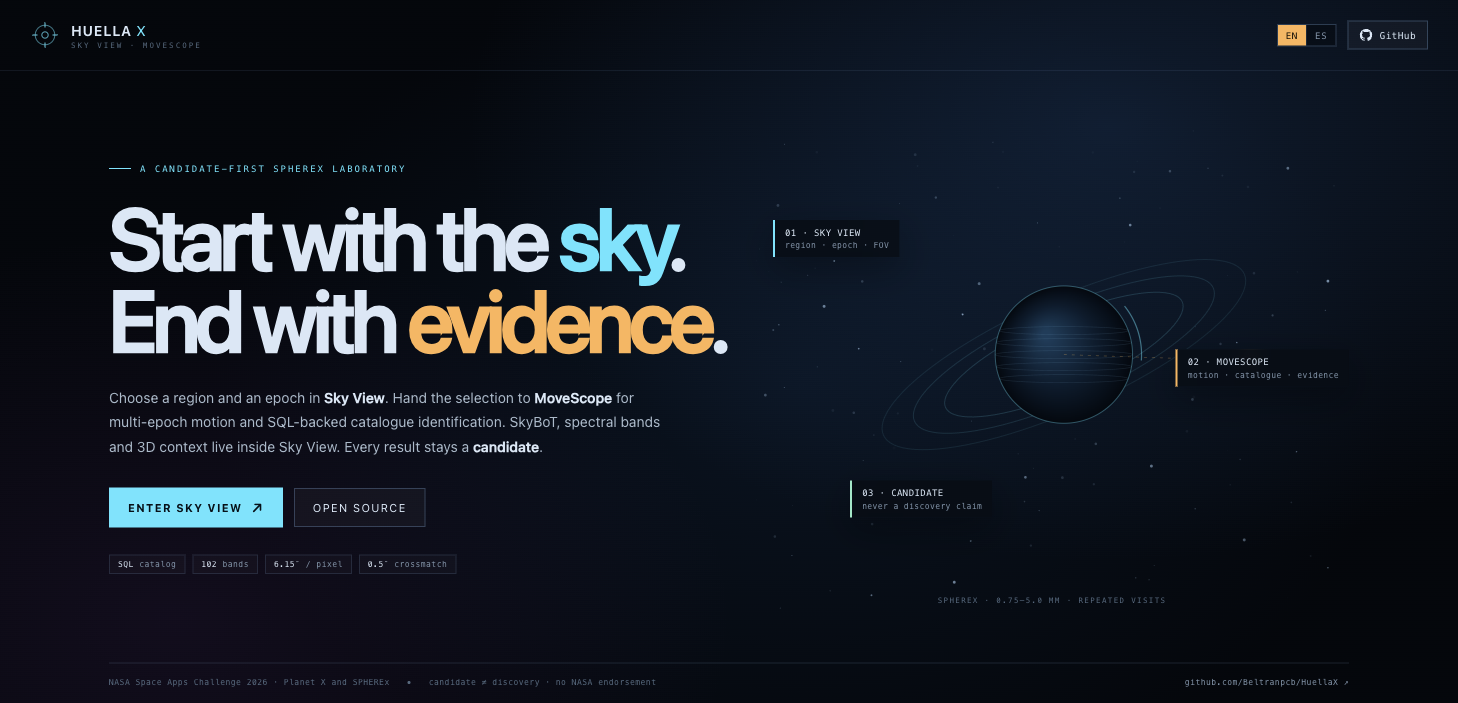
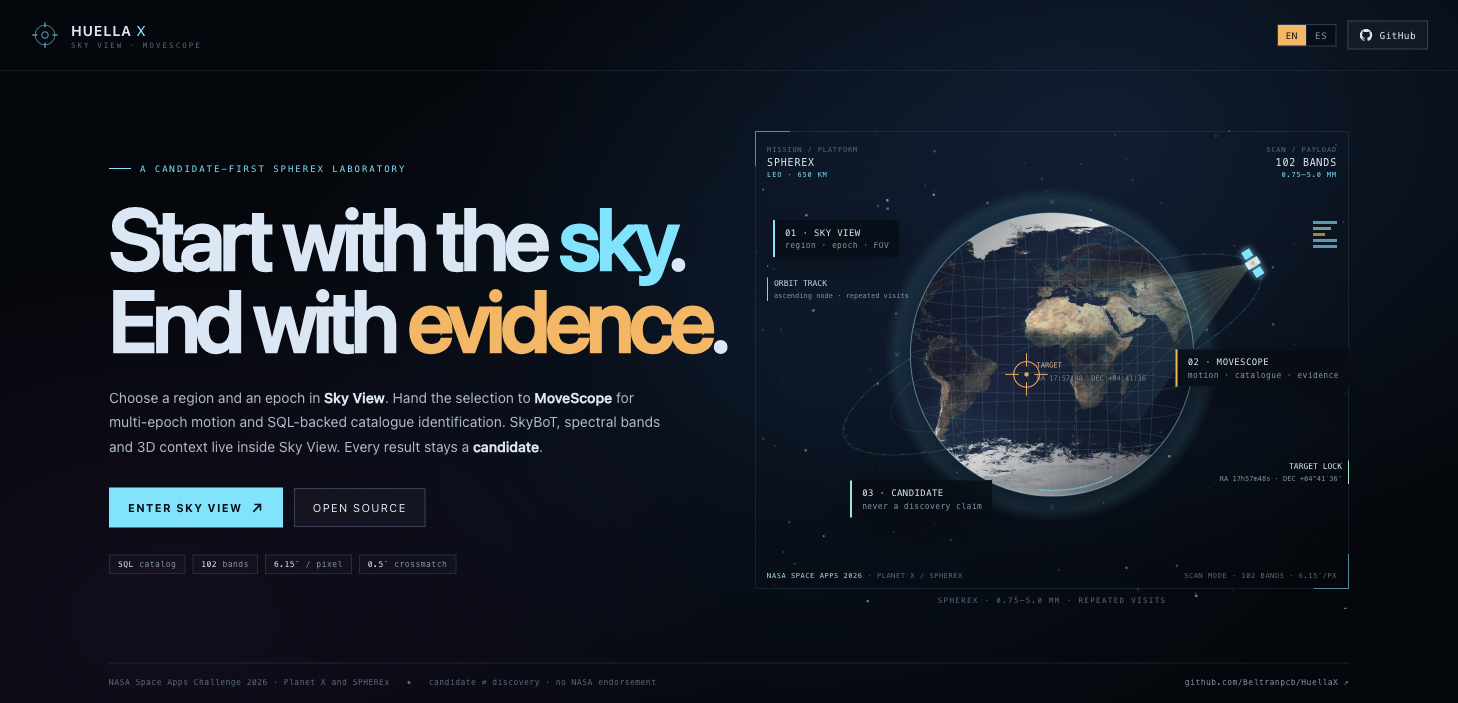
design: add NASA-style Earth, orbit and telemetry HUD to entry page

diff --git a/index.html b/index.html
@@ -77,6 +77,28 @@
   .float{position:absolute;border-left:2px solid var(--cyan);background:rgba(6,12,20,.82);backdrop-filter:blur(8px);padding:7px 10px;font-family:var(--mono);font-size:8px;letter-spacing:.05em;box-shadow:0 12px 36px rgba(0,0,0,.3);pointer-events:none}
   .float b{display:block;color:var(--ink);font-size:9px;font-weight:500;margin-bottom:3px}
   .float span{color:var(--dim)}
+
+  /* NASA-style mission HUD around the orbital illustration */
+  .orbit-frame{position:absolute;inset:2px 0 20px;pointer-events:none;border:1px solid rgba(87,230,255,.10);}
+  .orbit-frame:before,.orbit-frame:after{content:"";position:absolute;width:34px;height:34px;border-color:rgba(87,230,255,.55);border-style:solid;}
+  .orbit-frame:before{top:-1px;left:-1px;border-width:1px 0 0 1px;}
+  .orbit-frame:after{bottom:-1px;right:-1px;border-width:0 1px 1px 0;}
+  .orbit-hud{position:absolute;inset:16px 0 auto;display:flex;justify-content:space-between;pointer-events:none;padding:0 12px;}
+  .oh{font-family:var(--mono);font-size:7px;letter-spacing:.12em;color:var(--dim2);text-transform:uppercase;}
+  .oh b{display:block;margin-top:3px;color:var(--ink);font-size:10px;font-weight:500;letter-spacing:.08em;}
+  .oh small{display:block;margin-top:2px;color:var(--cyan);font-size:7px;}
+  .oh.right{text-align:right;}
+  .orbit-strip{position:absolute;left:12px;right:12px;bottom:30px;display:flex;justify-content:space-between;pointer-events:none;font-family:var(--mono);font-size:7px;color:var(--dim2);letter-spacing:.08em;text-transform:uppercase;}
+  .orbit-strip b{color:var(--mint);font-weight:500;}
+  .orbit-spectrum{position:absolute;right:12px;top:92px;display:flex;flex-direction:column;gap:3px;pointer-events:none;}
+  .orbit-spectrum i{display:block;width:24px;height:3px;background:var(--cyan);opacity:.65;}
+  .orbit-spectrum i:nth-child(2){width:18px;background:var(--mint)}
+  .orbit-spectrum i:nth-child(3){width:12px;background:var(--amber)}
+  .orbit-callout{position:absolute;border-left:1px solid var(--cyan);padding-left:6px;font-family:var(--mono);font-size:7px;line-height:1.55;color:var(--dim);pointer-events:none;}
+  .orbit-callout b{display:block;color:var(--ink);font-size:8px;font-weight:500;}
+  .oc-1{left:2%;top:31%;border-left-color:var(--amber)}
+  .oc-2{right:0;bottom:26%;text-align:right;border-left:0;border-right:1px solid var(--mint);padding-left:0;padding-right:6px}
+  @media(max-width:620px){.orbit-hud,.orbit-strip,.orbit-callout,.orbit-spectrum{display:none}}
   .f1{top:19%;left:3%}.f2{top:46%;right:0;border-left-color:var(--amber)}.f3{bottom:19%;left:16%;border-left-color:var(--mint)}
   .foot{
     flex:none;border-top:1px solid var(--line);width:min(1240px,calc(100% - 60px));
@@ -147,10 +169,19 @@
     </section>
 
     <section class="stage" aria-label="Sky View orbital illustration">
+      <div class="orbit-frame" aria-hidden="true"></div>
       <canvas id="orbit"></canvas>
+      <div class="orbit-hud">
+        <div class="oh"><span data-i18n="hudMission">Mission / platform</span><b>SPHEREx</b><small data-i18n="hudOrbit">LEO · 650 km</small></div>
+        <div class="oh right"><span data-i18n="hudScan">Scan / payload</span><b data-i18n="hudBands">102 BANDS</b><small>0.75–5.0 µm</small></div>
+      </div>
+      <div class="orbit-spectrum" aria-hidden="true"><i></i><i></i><i></i><i></i><i></i></div>
+      <div class="orbit-callout oc-1"><b data-i18n="hudTrack">ORBIT TRACK</b><span data-i18n="hudTrackNote">ascending node · repeated visits</span></div>
+      <div class="orbit-callout oc-2"><b data-i18n="hudTarget">TARGET LOCK</b><span>RA 17h57m48s · DEC +04°41′36″</span></div>
       <div class="float f1"><b>01 · SKY VIEW</b><span>region · epoch · FOV</span></div>
       <div class="float f2"><b>02 · MOVESCOPE</b><span>motion · catalogue · evidence</span></div>
       <div class="float f3"><b>03 · CANDIDATE</b><span>never a discovery claim</span></div>
+      <div class="orbit-strip"><span data-i18n-html="hudLeft">NASA SPACE APPS 2026 · PLANET X / SPHEREX</span><span data-i18n="hudRight">SCAN MODE · 102 BANDS · 6.15″/PX</span></div>
       <div class="note" data-i18n="stageNote">SPHEREx · 0.75–5.0 µm · repeated visits</div>
     </section>
   </main>
@@ -176,6 +207,12 @@
       cta: "Enter Sky View <span class=\"arrow\">↗</span>",
       source: "Open source",
       stageNote: "SPHEREx · 0.75–5.0 µm · repeated visits",
+      hudMission: "Mission / platform", hudOrbit: "LEO · 650 km",
+      hudScan: "Scan / payload", hudBands: "102 BANDS",
+      hudTrack: "ORBIT TRACK", hudTrackNote: "ascending node · repeated visits",
+      hudTarget: "TARGET LOCK",
+      hudLeft: "<b>NASA SPACE APPS 2026</b> · PLANET X / SPHEREX",
+      hudRight: "SCAN MODE · 102 BANDS · 6.15″/PX",
       footLeft: "NASA Space Apps Challenge 2026 · Planet X and SPHEREx",
       footMid: "candidate ≠ discovery · no NASA endorsement"
     },
@@ -187,6 +224,12 @@
       cta: "Entrar en Sky View <span class=\"arrow\">↗</span>",
       source: "Código abierto",
       stageNote: "SPHEREx · 0,75–5,0 µm · visitas repetidas",
+      hudMission: "Misión / plataforma", hudOrbit: "LEO · 650 km",
+      hudScan: "Escaneo / carga útil", hudBands: "102 BANDAS",
+      hudTrack: "ÓRBITA", hudTrackNote: "nodo ascendente · visitas repetidas",
+      hudTarget: "OBJETIVO FIJADO",
+      hudLeft: "<b>NASA SPACE APPS 2026</b> · PLANETA X / SPHEREX",
+      hudRight: "MODO ESCANEO · 102 BANDAS · 6.15″/PX",
       footLeft: "NASA Space Apps Challenge 2026 · Planet X and SPHEREx",
       footMid: "candidato ≠ descubrimiento · NASA no respalda"
     }
@@ -219,37 +262,128 @@
   apply(lang);
 
   const c = document.getElementById("orbit"), ctx = c.getContext("2d");
+  const earth = new Image();
+  const lights = new Image();
+  let earthOk = false, lightsOk = false;
+  earth.onload = () => { earthOk = true; };
+  lights.onload = () => { lightsOk = true; };
+  earth.src = "assets/earth.jpg";
+  lights.src = "assets/earth-lights.png";
   let stars = [];
   function resize() {
     const dpr = Math.min(devicePixelRatio || 1, 2), r = c.getBoundingClientRect();
     c.width = Math.max(1, Math.round(r.width * dpr)); c.height = Math.max(1, Math.round(r.height * dpr));
     ctx.setTransform(dpr, 0, 0, dpr, 0, 0);
-    stars = Array.from({length: 120}, () => ({x: Math.random()*r.width, y: Math.random()*r.height, r: Math.random()*1.3+.2, a: Math.random()*.55+.15, p: Math.random()*6.28, s: .0006+Math.random()*.0012}));
+    stars = Array.from({length: 170}, () => ({x: Math.random()*r.width, y: Math.random()*r.height, r: Math.random()*1.25+.2, a: Math.random()*.6+.12, p: Math.random()*6.28, s: .0005+Math.random()*.0011}));
+  }
+  function orbitPoint(cx, cy, R, angle) {
+    const rot = -.38, ex = R*1.58*Math.cos(angle), ey = R*.43*Math.sin(angle);
+    return { x: cx + ex*Math.cos(rot) - ey*Math.sin(rot), y: cy + ex*Math.sin(rot) + ey*Math.cos(rot) };
   }
   function draw(ts) {
     const dpr = Math.min(devicePixelRatio || 1, 2), w = c.width/dpr, h = c.height/dpr;
     ctx.clearRect(0,0,w,h);
-    const cx = w*.52, cy = h*.47, R = Math.min(w,h)*.27;
+    const cx = w*.50, cy = h*.47, R = Math.min(w,h)*.295;
+    // stars
     stars.forEach(s => {
       const t = .55+.45*Math.sin(ts*s.s+s.p);
-      ctx.beginPath(); ctx.arc(s.x,s.y,s.r,0,6.283); ctx.fillStyle = `rgba(180,220,255,${s.a*t})`; ctx.fill();
+      ctx.beginPath(); ctx.arc(s.x,s.y,s.r,0,6.283); ctx.fillStyle = `rgba(185,220,255,${s.a*t})`; ctx.fill();
     });
-    ctx.save(); ctx.translate(cx,cy);
-    for(let i=0;i<3;i++){
-      ctx.beginPath(); ctx.ellipse(0,0,R+i*34,(R+i*34)*.28,-.42,0,6.283);
-      ctx.strokeStyle = `rgba(87,230,255,${.16-i*.035})`; ctx.lineWidth=1; ctx.stroke();
-    }
-    const g = ctx.createRadialGradient(-18,-20,4,0,0,R*.53);
-    g.addColorStop(0,"#173d5b"); g.addColorStop(.55,"#0a1c2e"); g.addColorStop(1,"#03080f");
-    ctx.beginPath(); ctx.arc(0,0,R*.53,0,6.283); ctx.fillStyle=g; ctx.fill();
-    ctx.strokeStyle="rgba(87,230,255,.34)"; ctx.stroke();
-    ctx.strokeStyle="rgba(120,190,230,.12)"; ctx.lineWidth=.7;
-    for(let k=-2;k<=2;k++){ const rr=R*.53*Math.sqrt(Math.max(0,1-(k*12/(R*.53))**2)); ctx.beginPath(); ctx.ellipse(0,k*12,rr,4,0,0,6.283); ctx.stroke(); }
-    const a=ts*.00012, mx=Math.cos(a)*(R+58), my=Math.sin(a)*(R+58)*.28;
-    ctx.beginPath(); ctx.arc(mx,my,3,0,6.283); ctx.fillStyle="#ffb454"; ctx.shadowColor="#ffb454"; ctx.shadowBlur=13; ctx.fill(); ctx.shadowBlur=0;
-    ctx.beginPath(); ctx.moveTo(0,0); ctx.lineTo(mx,my); ctx.strokeStyle="rgba(255,180,84,.34)"; ctx.setLineDash([3,5]); ctx.stroke(); ctx.setLineDash([]);
-    const scan=(ts*.05)%6.283; ctx.beginPath(); ctx.arc(0,0,R*.53+9,scan,scan+.75); ctx.strokeStyle="rgba(87,230,255,.45)"; ctx.lineWidth=1.2; ctx.stroke();
+    // orbital path
+    ctx.save(); ctx.translate(cx,cy); ctx.rotate(-.38);
+    ctx.beginPath(); ctx.ellipse(0,0,R*1.58,R*.43,0,0,6.283);
+    ctx.strokeStyle = "rgba(87,230,255,.13)"; ctx.lineWidth = 1; ctx.stroke();
+    ctx.beginPath(); ctx.ellipse(0,0,R*1.22,R*.33,0,0,6.283);
+    ctx.strokeStyle = "rgba(87,230,255,.08)"; ctx.stroke();
     ctx.restore();
+    // atmosphere
+    const atmo = ctx.createRadialGradient(cx,cy,R*.82,cx,cy,R*1.18);
+    atmo.addColorStop(0,"rgba(87,230,255,.0)"); atmo.addColorStop(.78,"rgba(87,230,255,.10)"); atmo.addColorStop(1,"rgba(87,230,255,0)");
+    ctx.beginPath(); ctx.arc(cx,cy,R*1.18,0,6.283); ctx.fillStyle=atmo; ctx.fill();
+    // globe
+    ctx.save(); ctx.beginPath(); ctx.arc(cx,cy,R,0,6.283); ctx.clip();
+    if (earthOk) {
+      const sw = earth.naturalWidth, sh = earth.naturalHeight;
+      const scale = Math.max((R*2)/sw,(R*2)/sh), dw=sw*scale, dh=sh*scale;
+      ctx.drawImage(earth, cx-dw/2, cy-dh/2, dw, dh);
+      if (lightsOk) {
+        ctx.globalCompositeOperation = "screen"; ctx.globalAlpha = .26;
+        ctx.drawImage(lights, cx-dw/2, cy-dh/2, dw, dh);
+        ctx.globalCompositeOperation = "source-over"; ctx.globalAlpha = 1;
+      }
+      const night = ctx.createLinearGradient(cx-R,cy-R,cx+R,cy+R*.4);
+      night.addColorStop(0,"rgba(1,6,14,.58)"); night.addColorStop(.48,"rgba(1,6,14,.08)"); night.addColorStop(1,"rgba(1,6,14,.62)");
+      ctx.fillStyle = night; ctx.fillRect(cx-R,cy-R,R*2,R*2);
+    } else {
+      const g = ctx.createRadialGradient(cx-R*.22,cy-R*.30,4,cx,cy,R);
+      g.addColorStop(0,"#1a4f70"); g.addColorStop(.55,"#0a2237"); g.addColorStop(1,"#02070e");
+      ctx.fillStyle=g; ctx.fillRect(cx-R,cy-R,R*2,R*2);
+    }
+    // graticule
+    ctx.strokeStyle = "rgba(120,205,240,.17)"; ctx.lineWidth = .7;
+    for (let k=-3;k<=3;k++) {
+      const yy = cy + k*R*.20;
+      const rx = R*Math.sqrt(Math.max(0,1-(k*.20)**2));
+      ctx.beginPath(); ctx.ellipse(cx,yy,rx,R*.075,0,0,6.283); ctx.stroke();
+    }
+    for (let k=-3;k<=3;k++) {
+      const xx = cx + k*R*.22;
+      const hh = R*Math.sqrt(Math.max(0,1-(k*.22)**2));
+      ctx.beginPath(); ctx.ellipse(xx,cy,R*.055,hh,0,0,6.283); ctx.stroke();
+    }
+    // terminator
+    ctx.beginPath(); ctx.ellipse(cx-R*.36,cy,R*.48,R*.95,-.28,0,6.283);
+    ctx.strokeStyle = "rgba(255,180,84,.24)"; ctx.setLineDash([4,5]); ctx.stroke(); ctx.setLineDash([]);
+    ctx.restore();
+    ctx.beginPath(); ctx.arc(cx,cy,R,0,6.283); ctx.strokeStyle="rgba(140,225,255,.48)"; ctx.lineWidth=1; ctx.stroke();
+
+    // scan footprint from satellite toward target
+    const a = (ts*.00016) - .95;
+    const sat = orbitPoint(cx,cy,R,a);
+    const scan = ctx.createLinearGradient(sat.x,sat.y,cx,cy);
+    scan.addColorStop(0,"rgba(255,180,84,.20)"); scan.addColorStop(.55,"rgba(87,230,255,.10)"); scan.addColorStop(1,"rgba(87,230,255,0)");
+    ctx.beginPath(); ctx.moveTo(sat.x,sat.y); ctx.lineTo(cx-R*.76,cy-R*.34); ctx.lineTo(cx+R*.58,cy+R*.52); ctx.closePath(); ctx.fillStyle=scan; ctx.fill();
+    for (let i=0;i<7;i++) {
+      const f=(i+1)/8, x=cx-R*.76+(R*1.34)*f, y=cy-R*.34+(R*.86)*f;
+      ctx.beginPath(); ctx.moveTo(sat.x,sat.y); ctx.lineTo(x,y); ctx.strokeStyle="rgba(87,230,255,.10)"; ctx.stroke();
+    }
+
+    // target lock
+    const tx = cx - R*.18, ty = cy + R*.14;
+    ctx.save(); ctx.translate(tx,ty);
+    ctx.strokeStyle="rgba(255,180,84,.95)"; ctx.lineWidth=1;
+    ctx.beginPath(); ctx.arc(0,0,R*.09,0,6.283); ctx.stroke();
+    ctx.beginPath(); ctx.moveTo(-R*.15,0); ctx.lineTo(-R*.055,0); ctx.moveTo(R*.055,0); ctx.lineTo(R*.15,0); ctx.moveTo(0,-R*.15); ctx.lineTo(0,-R*.055); ctx.moveTo(0,R*.055); ctx.lineTo(0,R*.15); ctx.stroke();
+    ctx.fillStyle="rgba(255,180,84,.9)"; ctx.beginPath(); ctx.arc(0,0,2.2,0,6.283); ctx.fill();
+    ctx.restore();
+    ctx.font = "7px ui-monospace, monospace"; ctx.fillStyle = "rgba(255,205,145,.88)";
+    ctx.fillText(lang === "es" ? "OBJETIVO" : "TARGET", tx+10, ty-7); ctx.fillStyle="rgba(170,210,235,.55)"; ctx.fillText("RA 17:57:48  DEC +04:41:36", tx+10, ty+6);
+
+    // satellite body
+    ctx.save(); ctx.translate(sat.x,sat.y); ctx.rotate(a - .38 + Math.PI/2);
+    ctx.shadowColor="rgba(87,230,255,.75)"; ctx.shadowBlur=12;
+    ctx.fillStyle="#d8eef8"; ctx.fillRect(-4,-7,8,14);
+    ctx.fillStyle="#57e6ff"; ctx.fillRect(-15,-5,9,10); ctx.fillRect(6,-5,9,10);
+    ctx.strokeStyle="rgba(8,25,38,.8)"; ctx.lineWidth=.6; ctx.strokeRect(-15,-5,9,10); ctx.strokeRect(6,-5,9,10);
+    ctx.fillStyle="#ffb454"; ctx.beginPath(); ctx.arc(0,0,2.2,0,6.283); ctx.fill();
+    ctx.restore();
+
+    // orbital ticks
+    ctx.save(); ctx.translate(cx,cy); ctx.rotate(-.38);
+    for (let i=0;i<48;i++) {
+      const t=i/48*6.283, ex=R*1.58*Math.cos(t), ey=R*.43*Math.sin(t);
+      const len=(i%6===0)?5:2.5;
+      ctx.beginPath(); ctx.moveTo(ex,ey); ctx.lineTo(ex+len,ey-len*.22); ctx.strokeStyle="rgba(87,230,255,.28)"; ctx.lineWidth=.6; ctx.stroke();
+    }
+    ctx.restore();
+
+    // scan arc
+    const arc=(ts*.03)%6.283;
+    ctx.beginPath(); ctx.arc(cx,cy,R*.96,arc,arc+.55); ctx.strokeStyle="rgba(87,230,255,.5)"; ctx.lineWidth=1.4; ctx.stroke();
+    // tiny crosshair grid labels
+    ctx.fillStyle="rgba(126,148,170,.45)"; ctx.font="6.5px ui-monospace, monospace";
+    ctx.fillText("N", cx-2, cy-R-9); ctx.fillText("E", cx+R+7, cy+2);
+    ctx.fillText("S", cx-2, cy+R+13); ctx.fillText("W", cx-R-15, cy+2);
     requestAnimationFrame(draw);
   }
   resize(); addEventListener("resize", resize); requestAnimationFrame(draw);
